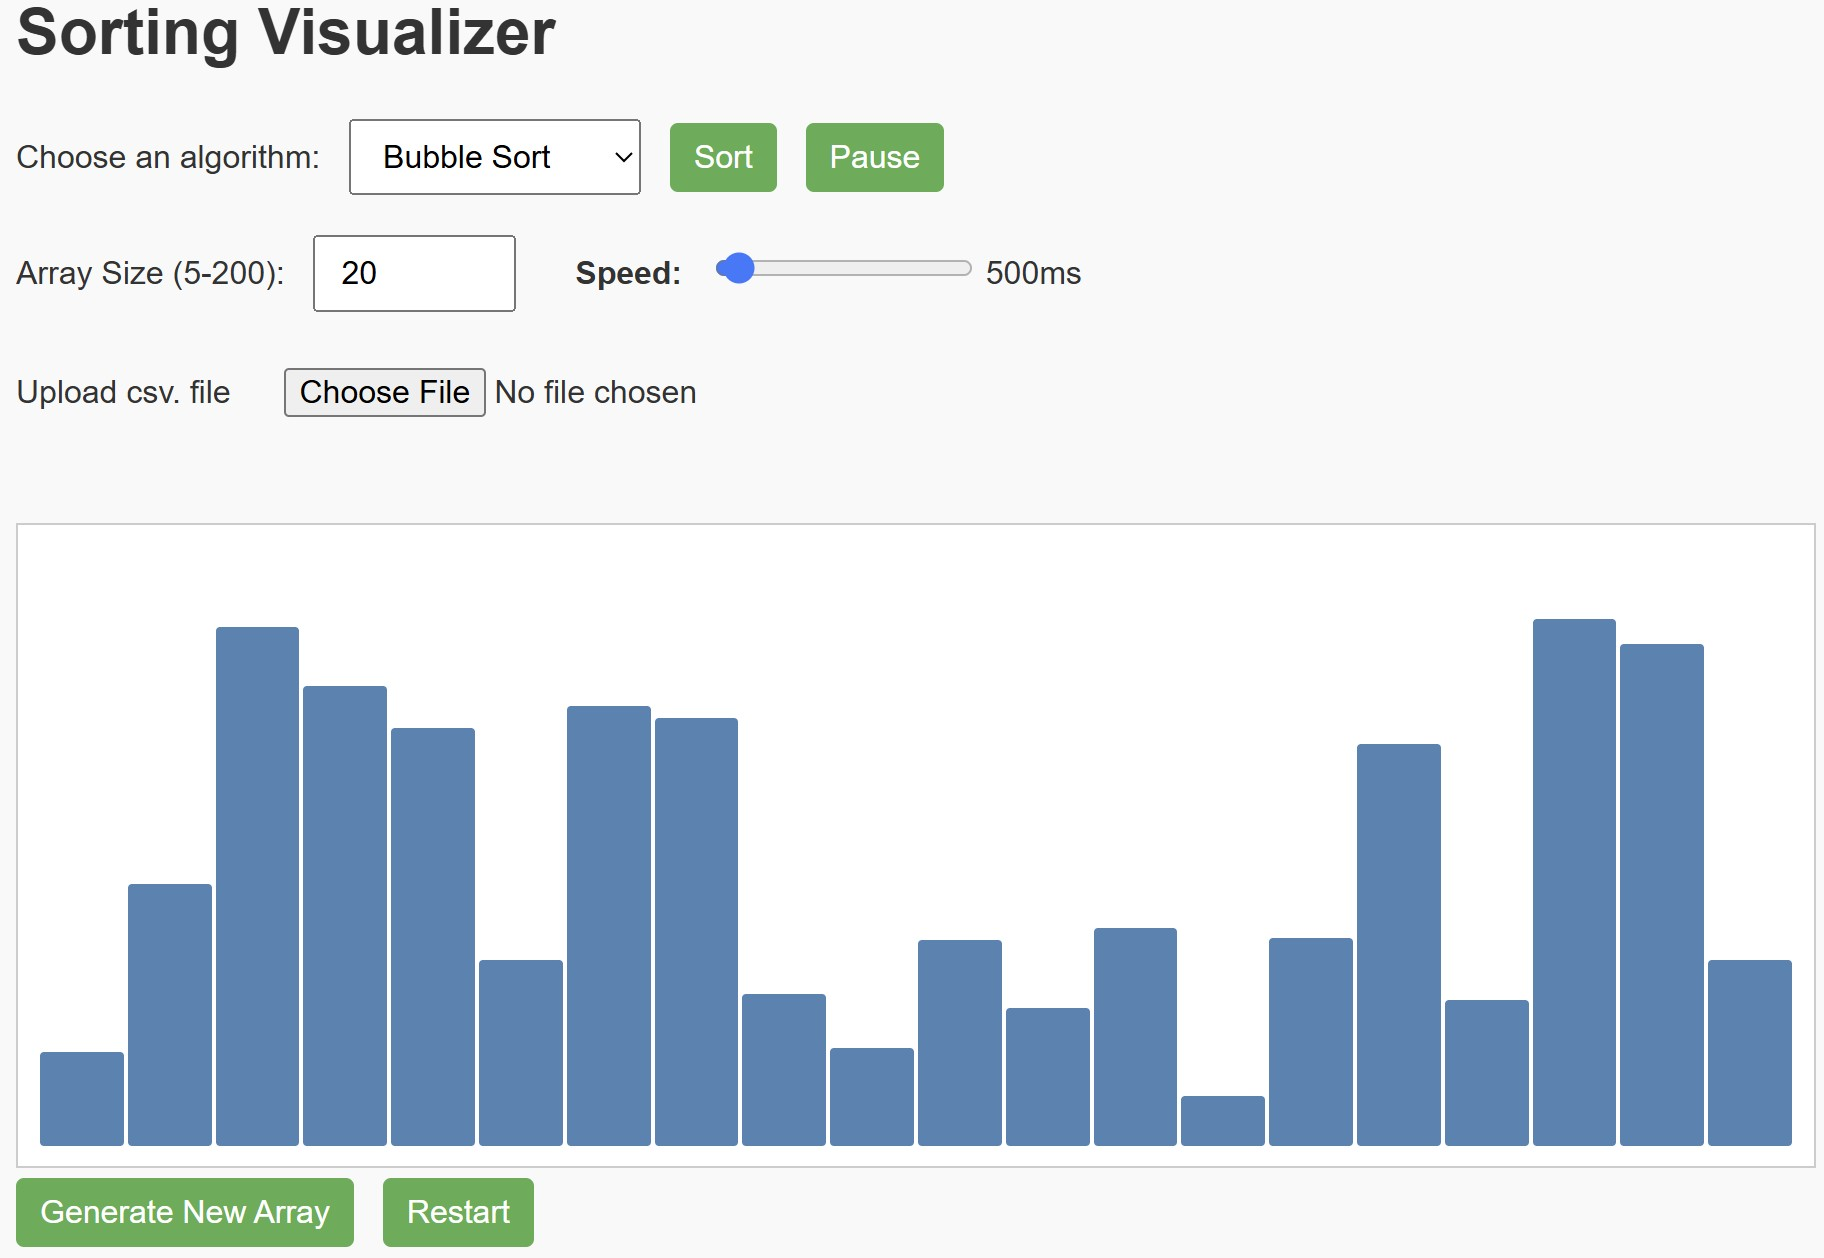
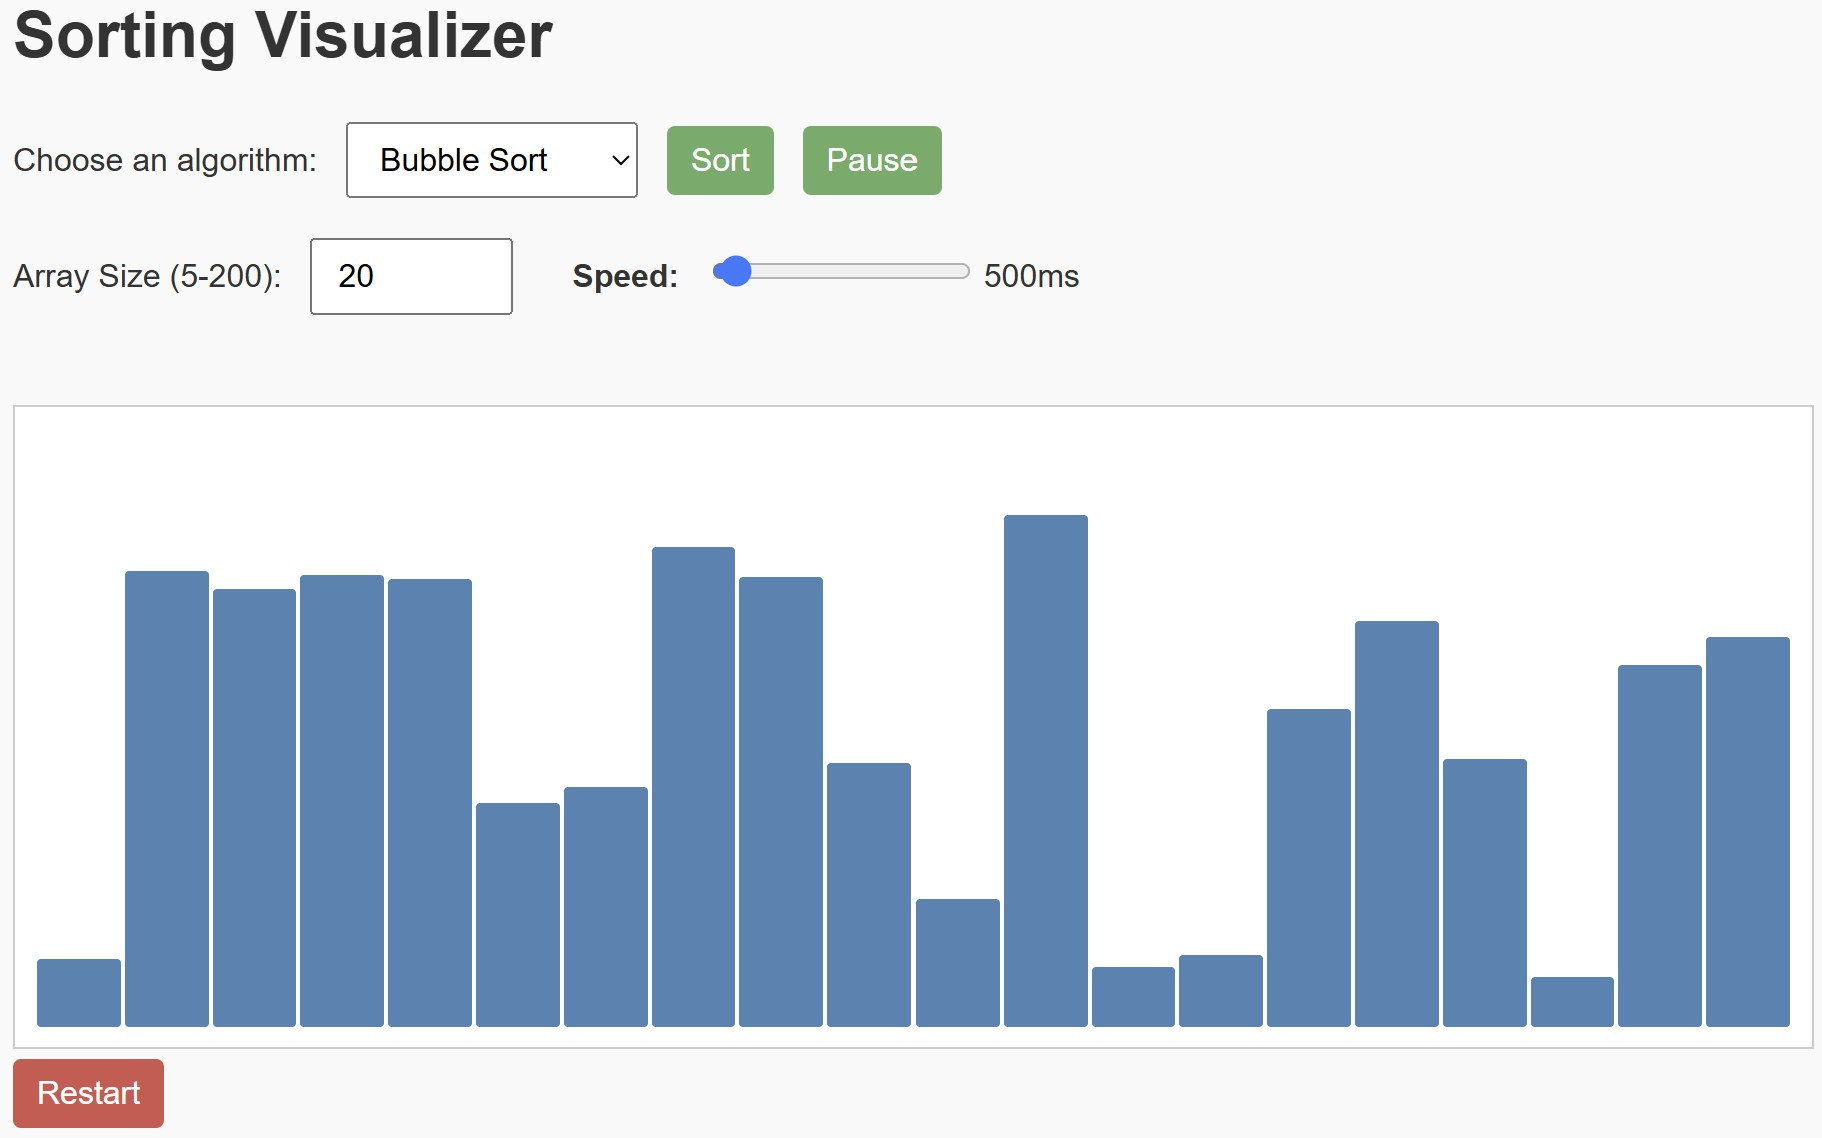
fix: deleted placeholders, generate array button, update image

diff --git a/projects/js/sorting.js b/projects/js/sorting.js
@@ -106,11 +106,7 @@ async function selectionSort() {
     bars[minIndex].style.backgroundColor = "orange";
 
     for (let j = i + 1; j < values.length; j++) {
-      // Wait if paused
-      while (isPaused) {
-        await new Promise(resolve => setTimeout(resolve, 100));
-      }
-
+      while (isPaused) await new Promise(r => setTimeout(r, 100));
       if (isCancelled) return;
 
       bars[j].style.backgroundColor = "red";
@@ -130,6 +126,9 @@ async function selectionSort() {
       }
     }
 
+    // Always delay on swap to show the change:
+    await new Promise(r => setTimeout(r, parseInt(document.getElementById("speedRange").value)));
+
     if (minIndex !== i) {
       bars[minIndex].style.backgroundColor = "purple";
       [values[i], values[minIndex]] = [values[minIndex], values[i]];
@@ -137,9 +136,10 @@ async function selectionSort() {
       bars[minIndex].style.height = `${values[minIndex]}px`;
     }
 
-    bars[i].style.backgroundColor = "green"; // Sorted part
+    bars[i].style.backgroundColor = "green";
   }
-  bars[values.length - 1].style.backgroundColor = "green"; // Last item is sorted
+
+  bars[values.length - 1].style.backgroundColor = "green";
   isSorting = false;
 }
 

diff --git a/projects/sorting.html b/projects/sorting.html
@@ -25,13 +25,15 @@
 
   <label for="speedRange">Speed: </label>
   <input type="range" id="speedRange" min="1" max="500" value="20" />
-  <span id="speedValue">500ms</span>
+  <span id="speedValue">500ms</span><br>
+
+  <!--<label for="fileInput">Upload csv. file</label>
+  <input type="file" id="fileInput" accept=".csv" class="control" />-->
 
   <div id="container"></div>
   <script src="js/sorting.js"></script>
 
-  <button onclick="generateBars()" class="control">Generate New Array</button>
-  <button onclick="restartSort()" class="control">Restart</button><br><br>
+  <button onclick="restartSort()" class="control restart-btn">Restart</button><br><br>
 
   <a href="../index.html">Back to Home</a>
 

diff --git a/index.html b/index.html
@@ -32,7 +32,7 @@
       <a href="projects/sorting.html" class="project-link" target="_blank">View Project</a>
     </div>
 
-    <div class="project-box">
+    <!--<div class="project-box">
       <img src="https://via.placeholder.com/280x160?text=New+Project" alt="New Project" class="project-image" />
       <h2 class="project-title">New Project</h2>
       <p class="project-description">
@@ -48,7 +48,7 @@
         Placeholder for a future algorithm project.
       </p>
       <a href="#" class="project-link">Coming Soon</a>
-    </div>
+    </div>-->
 
   </div>
   </main>

diff --git a/projects/css/sorting.css b/projects/css/sorting.css
@@ -28,7 +28,7 @@ label {
 
 button.control {
   cursor: pointer;
-  background-color: #4caf50;
+  background-color: #64ae66;
   color: white;
   border: none;
   border-radius: 4px;
@@ -36,6 +36,15 @@ button.control {
 
 button.control:disabled {
   background-color: #a5d6a7;
+  cursor: not-allowed;
+}
+
+button.restart-btn {
+  background-color: #d9534f;
+}
+
+button.restart-btn:disabled {
+  background-color: #f2a2a2;
   cursor: not-allowed;
 }
 

diff --git a/style.css b/style.css
@@ -89,7 +89,7 @@ nav a:hover {
 
 .project-image {
   width: 100%;
-  height: 320px;
+  height: 350px;
   object-fit: cover;
   border-radius: 8px;
 }
